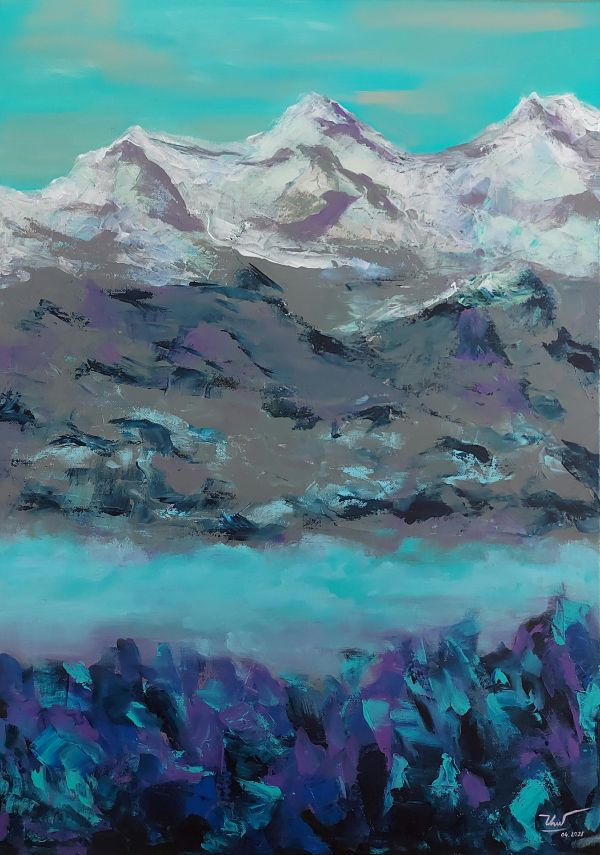
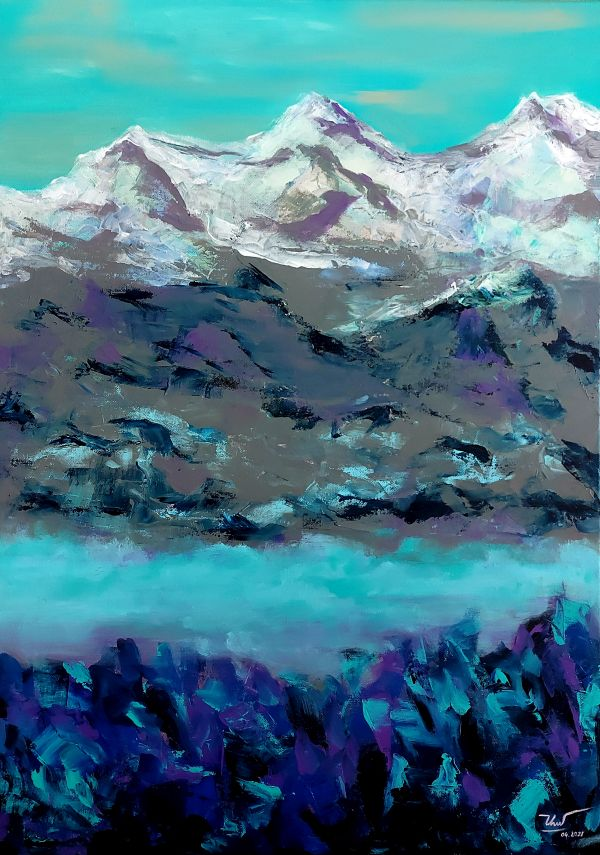
Gallery

diff --git a/gallery_acrylic.html b/gallery_acrylic.html
@@ -84,6 +84,17 @@
     </div>
 
     <div class="card gallery-item bg-light text-dark">
+      <img class="card-img-top" src="pics/gallery/acrylic/sacred_mountain.jpg">
+      <div class="card-body">
+        <h4>
+          <span class="card-title">Sacred mountain</span>
+        </h4>
+        <span class="card-text">65 x 81 cm</span>
+        <span class="card-text w-50 float-right text-right">2021</span>
+      </div>
+    </div>
+
+    <div class="card gallery-item bg-light text-dark">
       <img class="card-img-top" src="pics/gallery/acrylic/night_symphony2.jpg">
       <div class="card-body">
         <h4>
